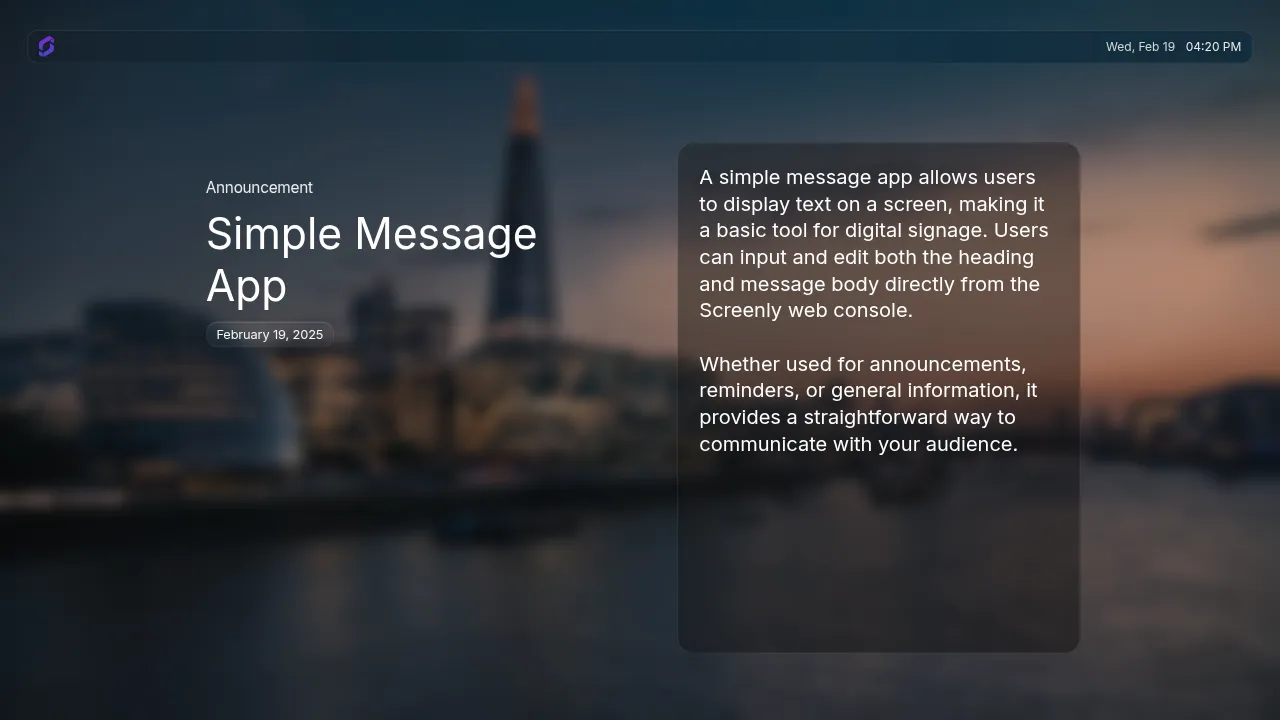
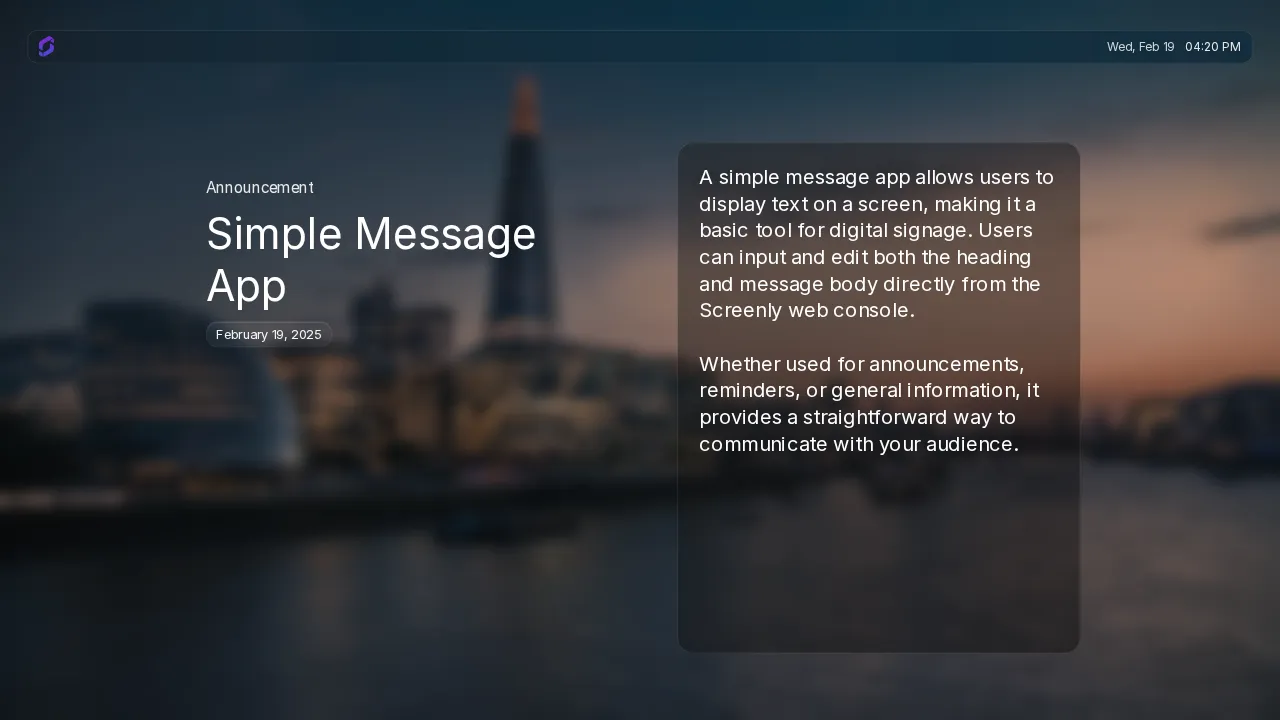
feat: adopt Tailwind CSS utility classes for styling
Rework index.html to use Tailwind utility classes instead of custom CSS
classes, keeping visual appearance and behavior unchanged. Slim the CSS
entry point down to just the design-system import. Bump
@screenly/edge-apps to ^1.3.0 for upcoming Tailwind CSS support.
Regenerate screenshots to reflect the change.

diff --git a/src/css/style.css b/src/css/style.css
@@ -1,186 +1,10 @@
-@import '@screenly/edge-apps/styles';
+/* Tailwind CSS, skipping Preflight (resets border/margin/padding on every
+   element via a universal selector and breaks custom-element hosts like
+   <app-header>). @screenly/edge-apps/styles goes in the `base` layer so any
+   Tailwind utility classes added later always win the cascade, regardless
+   of selector specificity. */
+@layer theme, base, utilities;
 
-* {
-  box-sizing: border-box;
-}
-
-body {
-  margin: 0;
-  padding: 0;
-  overflow: hidden;
-  font-family: 'Inter', system-ui, sans-serif;
-  background: url('/static/images/bg.webp') no-repeat center center;
-  background-size: cover;
-  background-color: #171e24;
-}
-
-body::before {
-  content: '';
-  position: fixed;
-  inset: 0;
-  z-index: var(--z-index-backdrop);
-  pointer-events: none;
-  background: rgba(0, 0, 0, 0.2);
-  backdrop-filter: blur(7px);
-}
-
-auto-scaler {
-  position: relative;
-  z-index: var(--z-index-content);
-}
-
-#app {
-  position: relative;
-  width: 100%;
-  height: 100%;
-  color: white;
-}
-
-app-header {
-  position: absolute;
-  left: 1.3125em;
-  top: 1.5625em;
-  width: calc(100% - 2.625em);
-}
-
-#left-content {
-  position: absolute;
-  left: calc(8.33% + 8.25em);
-  top: 15.5em;
-  width: 32.25em;
-  display: flex;
-  flex-direction: column;
-  gap: 1em;
-}
-
-#announcement-label {
-  font-weight: 300;
-  font-size: 1.44em;
-  line-height: normal;
-  letter-spacing: -0.0182em;
-  color: rgba(255, 255, 255, 0.9);
-}
-
-#message-header {
-  margin: 0;
-  font-size: 4em;
-  font-weight: 400;
-  line-height: normal;
-  color: white;
-  white-space: pre-wrap;
-  overflow-wrap: break-word;
-}
-
-#date-badge {
-  display: inline-flex;
-  align-items: center;
-  height: 2.031em;
-  width: fit-content;
-  padding: 0.417em 0.781em;
-  border: 0.0875em solid rgba(255, 255, 255, 0.06);
-  border-radius: 0.885em;
-  background: linear-gradient(
-    167deg,
-    rgba(255, 255, 255, 0.06) 0%,
-    rgba(255, 255, 255, 0.01) 100%
-  );
-  box-shadow:
-    0 0.677em 2.083em rgba(0, 0, 0, 0.15),
-    inset 0 0.0875em 0 rgba(255, 255, 255, 0.1),
-    inset 0 -0.0875em 0 rgba(255, 255, 255, 0.03);
-  font-size: 1.2em;
-  font-weight: 300;
-  line-height: normal;
-  color: rgba(255, 255, 255, 0.95);
-  letter-spacing: -0.01em;
-}
-
-#message-body-card {
-  position: absolute;
-  left: calc(50% + 3.5em);
-  top: 12.0625em;
-  width: 37.8125em;
-  height: 47.9375em;
-  border: 0.047em solid rgba(255, 255, 255, 0.1);
-  border-radius: 1.5em;
-  padding: 2em;
-  overflow: hidden;
-  background:
-    linear-gradient(90deg, rgba(0, 0, 0, 0.4), rgba(0, 0, 0, 0.4)),
-    linear-gradient(
-      128deg,
-      rgba(255, 255, 255, 0.08) 0%,
-      rgba(255, 255, 255, 0.02) 100%
-    );
-  box-shadow:
-    inset 0 0.047em 0 rgba(255, 255, 255, 0.15),
-    inset 0 -0.047em 0 rgba(255, 255, 255, 0.05);
-}
-
-#message-body {
-  font-size: 1.875em;
-  font-weight: 300;
-  line-height: 1.333;
-  color: white;
-  white-space: pre-wrap;
-  overflow-wrap: break-word;
-}
-
-@media (orientation: portrait) {
-  #app {
-    display: flex;
-    flex-direction: column;
-    padding: 1.25em;
-    padding-top: 1.25em;
-  }
-
-  app-header {
-    position: static;
-    width: 100%;
-  }
-
-  #left-content {
-    position: static;
-    width: 100%;
-    margin-top: 15em;
-    gap: 1em;
-  }
-
-  #announcement-label {
-    font-size: 3.5em;
-    font-weight: 500;
-    line-height: 1.25;
-    letter-spacing: normal;
-    padding-left: 0;
-  }
-
-  #message-header {
-    font-size: 7em;
-    font-weight: 400;
-    line-height: 1.179;
-  }
-
-  #date-badge {
-    font-size: 2.8125em;
-    font-weight: 400;
-    line-height: 1.311;
-    padding: 0.5em 1em;
-    border-radius: 1.05em;
-    margin-top: 0.5em;
-  }
-
-  #message-body-card {
-    position: static;
-    width: 100%;
-    margin-top: 10em;
-    height: 45.75em;
-    border-radius: 1.5em;
-    padding: 2em;
-  }
-
-  #message-body {
-    font-size: 2.375em;
-    font-weight: 300;
-    line-height: 1.25;
-  }
-}
+@import 'tailwindcss/theme.css' layer(theme);
+@import '@screenly/edge-apps/styles' layer(base);
+@import 'tailwindcss/utilities.css' layer(utilities);

diff --git a/index.html b/index.html
@@ -6,21 +6,51 @@
     <title>Simple Message App</title>
     <script src="screenly.js?version=1"></script>
   </head>
-  <body>
+  <body
+    class="bg-[url('/static/images/bg.webp')] bg-no-repeat bg-center bg-cover bg-[#171e24] before:content-[''] before:fixed before:inset-0 before:z-[var(--z-index-backdrop)] before:pointer-events-none before:bg-black/20 before:backdrop-blur-[7px]"
+  >
     <auto-scaler
       reference-width="1920"
       reference-height="1080"
       orientation="auto"
+      class="relative z-[var(--z-index-content)]"
     >
-      <div id="app">
-        <app-header show-logo show-time show-date></app-header>
-        <div id="left-content">
-          <span id="announcement-label">Announcement</span>
-          <h1 id="message-header"></h1>
-          <div id="date-badge"></div>
+      <div
+        id="app"
+        class="relative w-full h-full text-white portrait:flex portrait:flex-col portrait:p-[1.25em]"
+      >
+        <app-header
+          show-logo
+          show-time
+          show-date
+          class="absolute left-[1.3125em] top-[1.5625em] w-[calc(100%-2.625em)] portrait:static portrait:w-full"
+        ></app-header>
+        <div
+          id="left-content"
+          class="absolute left-[calc(8.33%+8.25em)] top-[15.5em] w-[32.25em] flex flex-col gap-[1em] portrait:static portrait:w-full portrait:mt-[15em] portrait:gap-[1em]"
+        >
+          <span
+            id="announcement-label"
+            class="font-light text-[1.44em] leading-[normal] tracking-[-0.0182em] text-white/90 portrait:text-[3.5em] portrait:font-medium portrait:leading-[1.25] portrait:tracking-[normal] portrait:pl-0"
+            >Announcement</span
+          >
+          <h1
+            id="message-header"
+            class="m-0 text-[4em] font-normal leading-[normal] text-white whitespace-pre-wrap break-words portrait:text-[7em] portrait:font-normal portrait:leading-[1.179]"
+          ></h1>
+          <div
+            id="date-badge"
+            class="inline-flex items-center h-[2.031em] w-fit py-[0.417em] px-[0.781em] border-[0.0875em] border-white/6 rounded-[0.885em] bg-[linear-gradient(167deg,rgba(255,255,255,0.06)_0%,rgba(255,255,255,0.01)_100%)] shadow-[0_0.677em_2.083em_rgba(0,0,0,0.15),inset_0_0.0875em_0_rgba(255,255,255,0.1),inset_0_-0.0875em_0_rgba(255,255,255,0.03)] text-[1.2em] font-light leading-[normal] text-white/95 tracking-[-0.01em] portrait:text-[2.8125em] portrait:font-normal portrait:leading-[1.311] portrait:py-[0.5em] portrait:px-[1em] portrait:rounded-[1.05em] portrait:mt-[0.5em]"
+          ></div>
         </div>
-        <div id="message-body-card">
-          <div id="message-body"></div>
+        <div
+          id="message-body-card"
+          class="absolute left-[calc(50%+3.5em)] top-[12.0625em] w-[37.8125em] h-[47.9375em] border-[0.047em] border-white/10 rounded-[1.5em] p-[2em] overflow-hidden bg-[linear-gradient(90deg,rgba(0,0,0,0.4),rgba(0,0,0,0.4)),linear-gradient(128deg,rgba(255,255,255,0.08)_0%,rgba(255,255,255,0.02)_100%)] shadow-[inset_0_0.047em_0_rgba(255,255,255,0.15),inset_0_-0.047em_0_rgba(255,255,255,0.05)] portrait:static portrait:w-full portrait:mt-[10em] portrait:h-[45.75em] portrait:rounded-[1.5em] portrait:p-[2em]"
+        >
+          <div
+            id="message-body"
+            class="text-[1.875em] font-light leading-[1.333] text-white whitespace-pre-wrap break-words portrait:text-[2.375em] portrait:font-light portrait:leading-[1.25]"
+          ></div>
         </div>
       </div>
     </auto-scaler>
